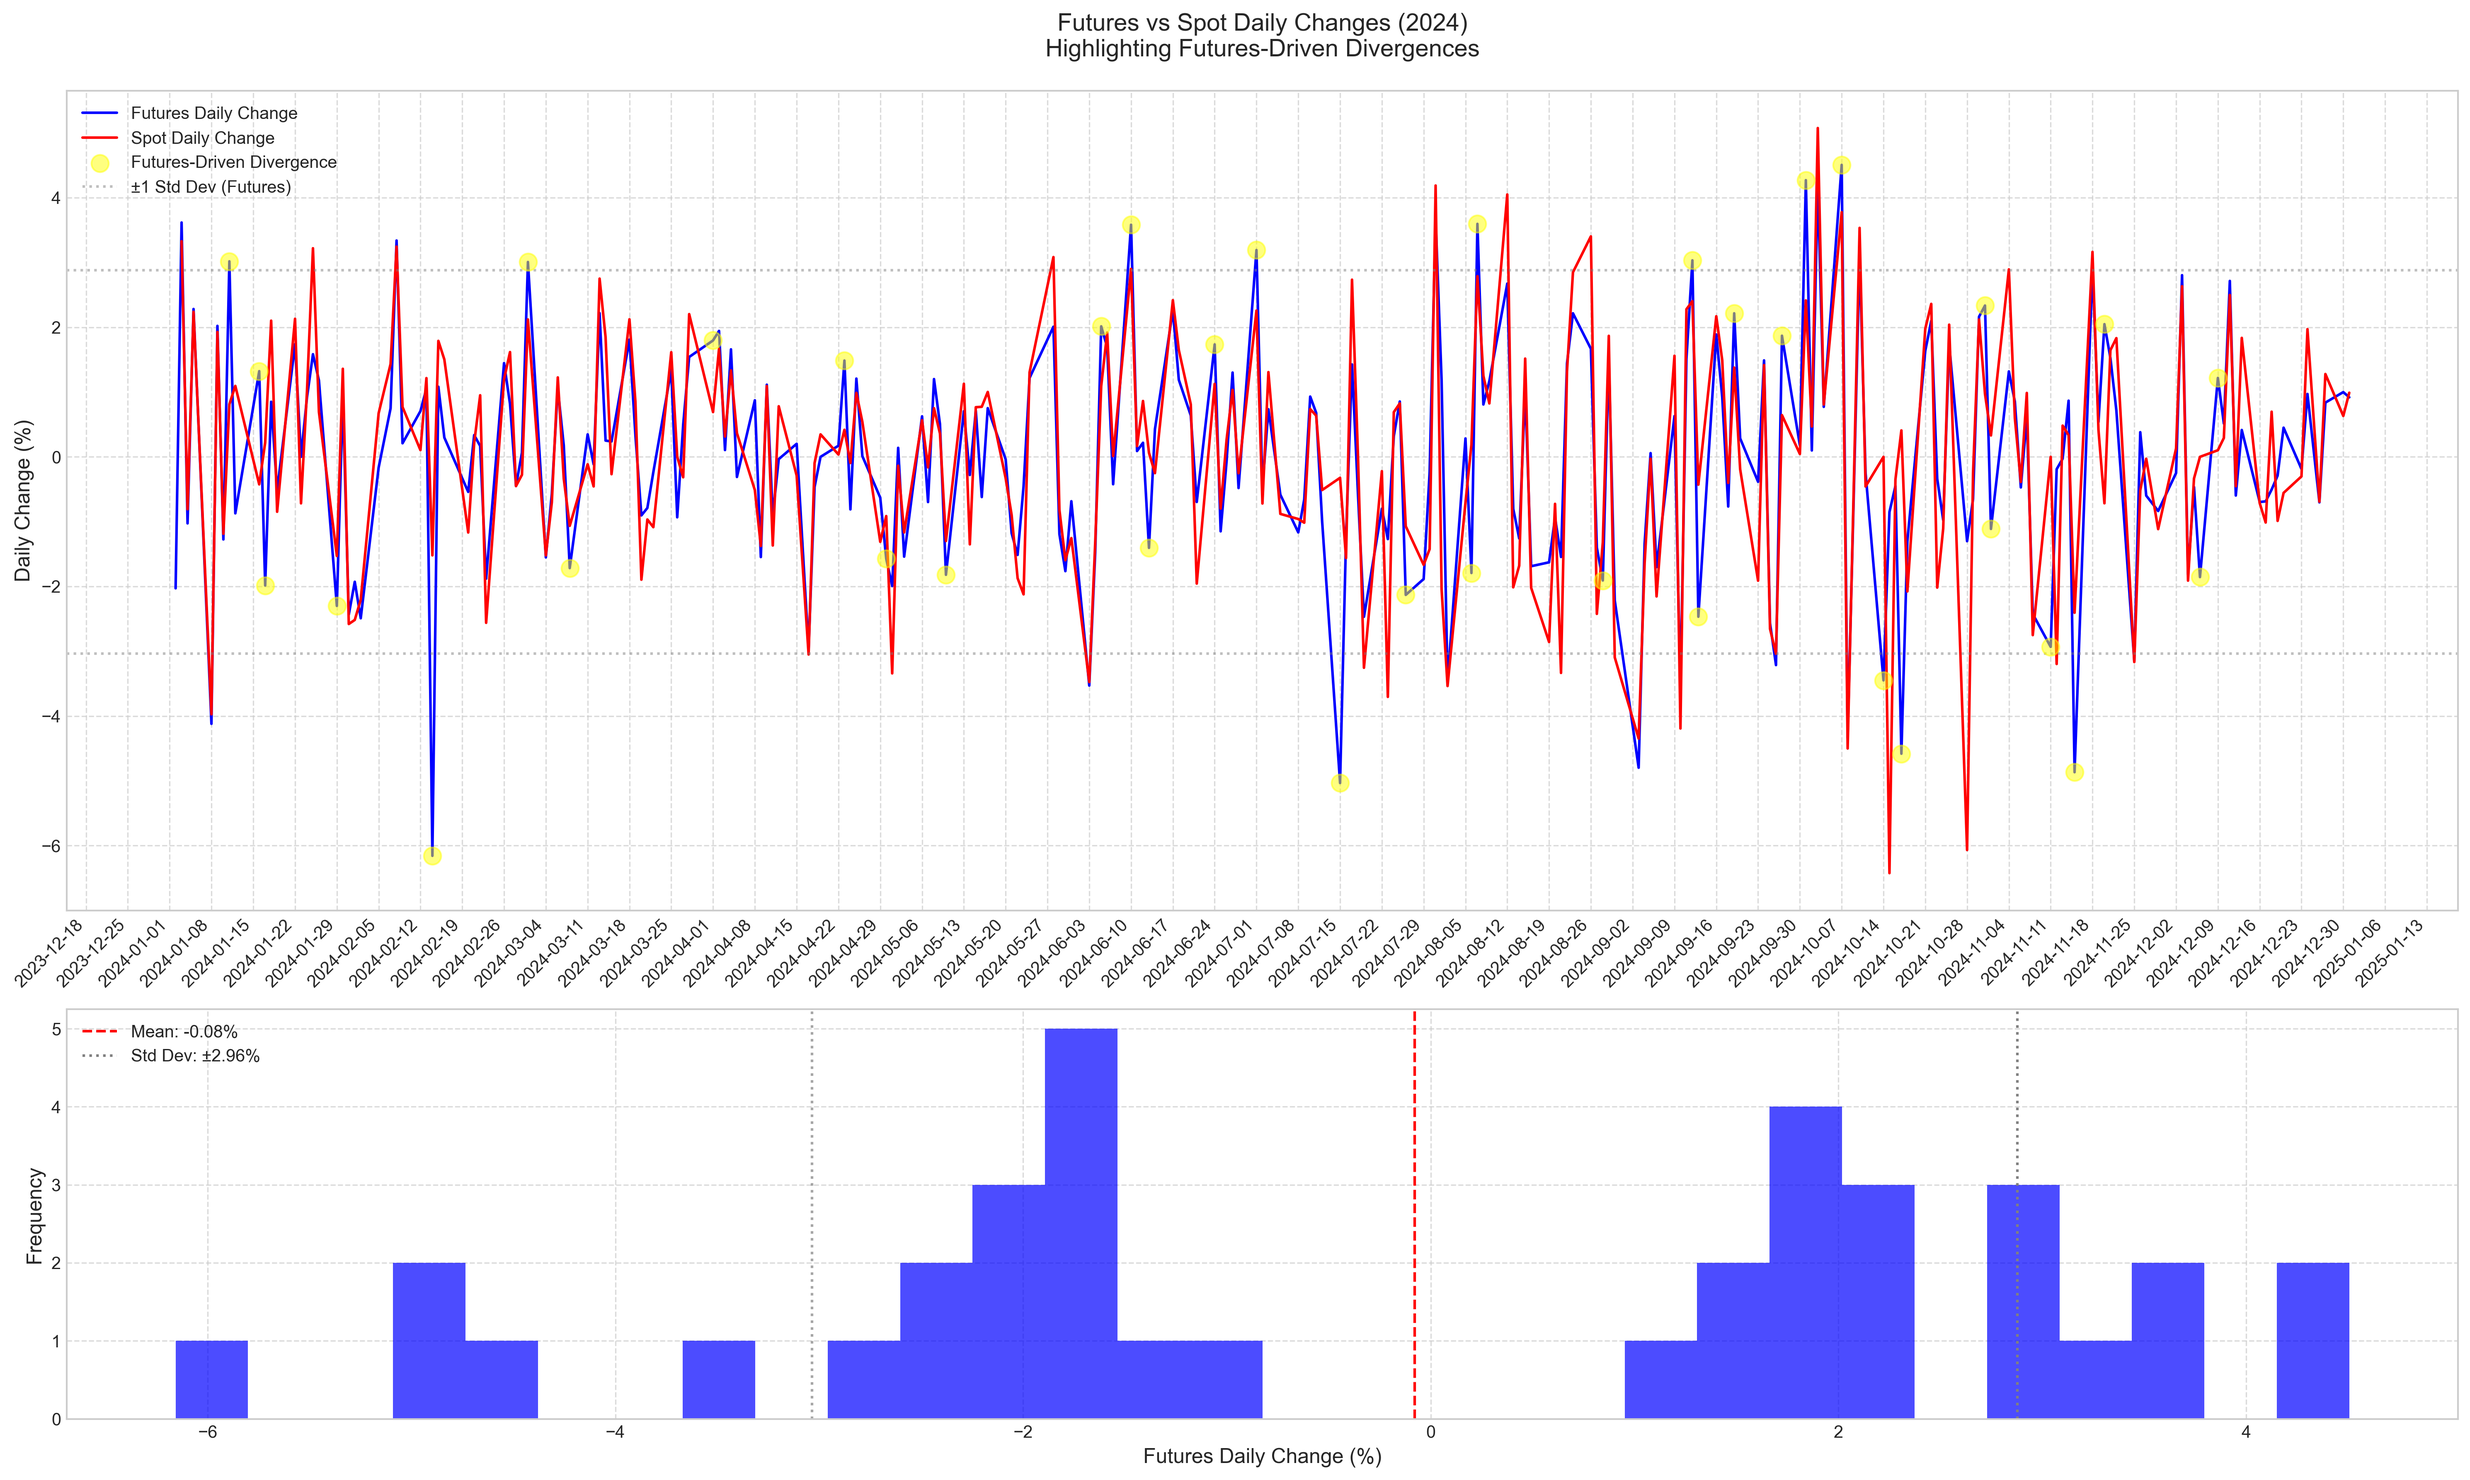
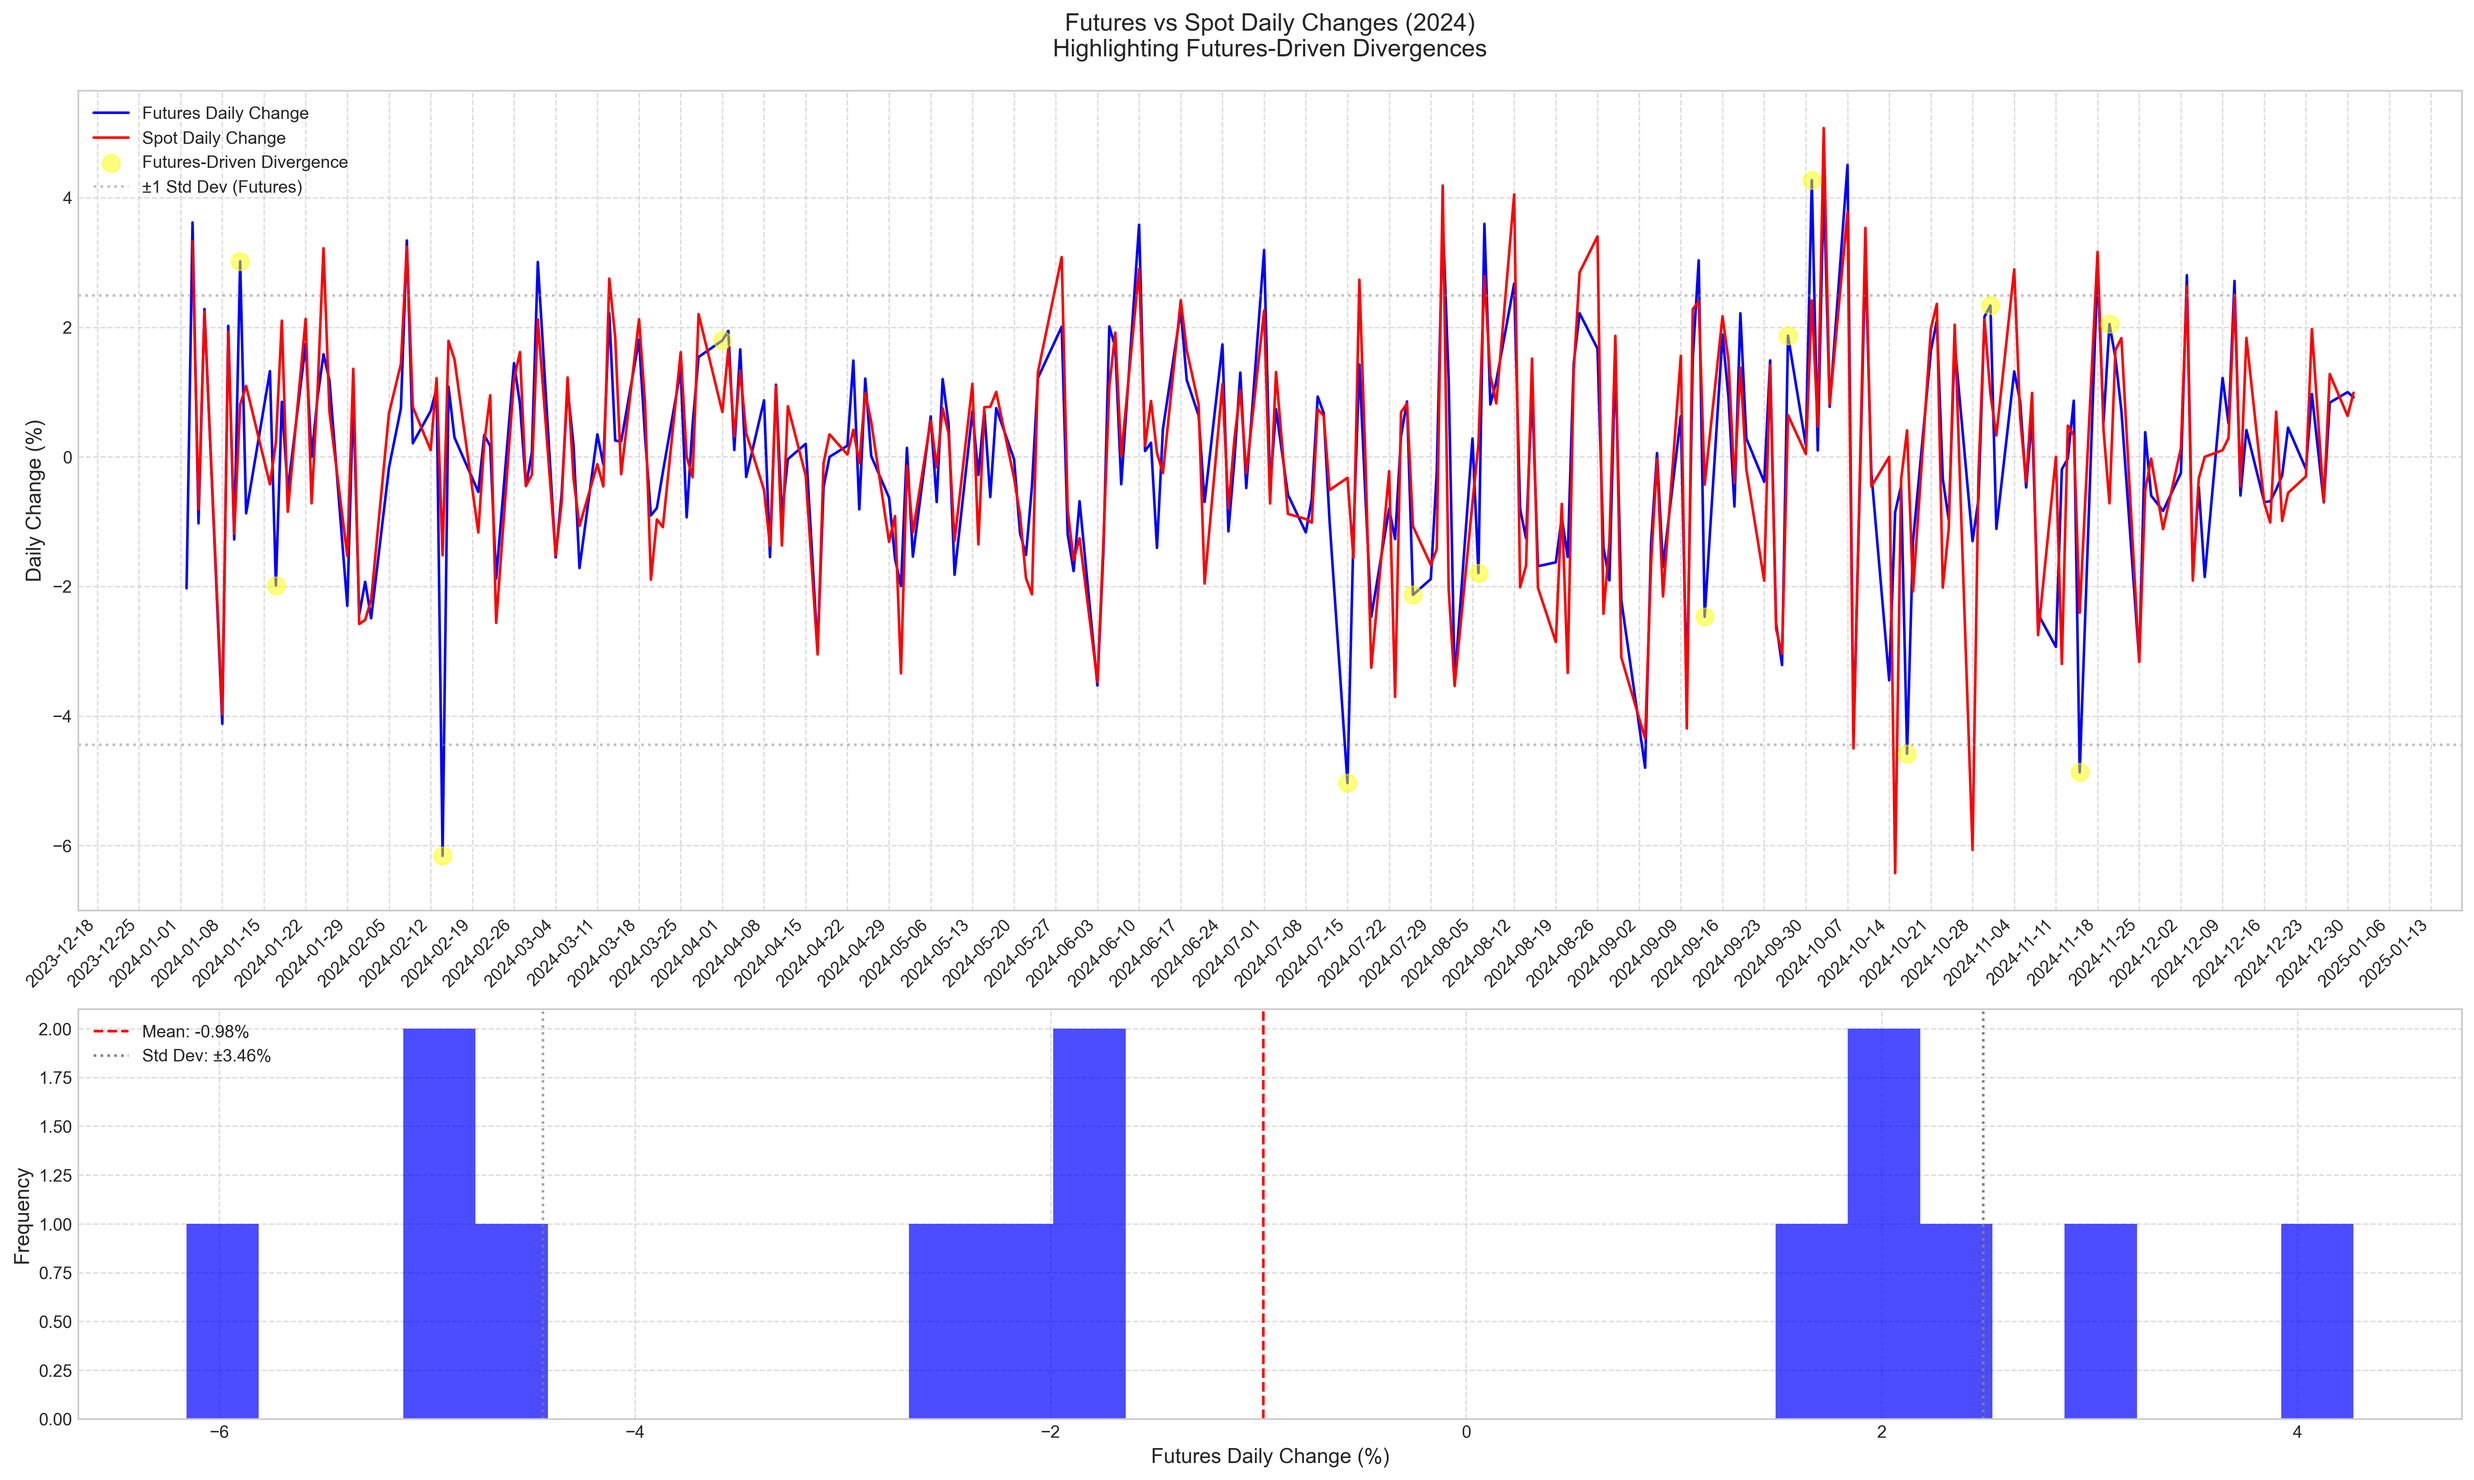
Cleaning up delta analysis

diff --git a/analysis/mixed/analyze_daily_deltas.py b/analysis/mixed/analyze_daily_deltas.py
@@ -5,6 +5,16 @@ import numpy as np
 import sys
 from pathlib import Path
 
+"""
+Conditions for identifying significant futures-driven divergences:
+1. Magnitude: Futures price move must exceed 1.5% (abs)
+2. Dominance: Futures move must be at least 1.5x larger than spot move
+3. Separation: The absolute difference between futures and spot moves must exceed 1.0%
+
+All three conditions must be met simultaneously to flag an event as futures-driven.
+This ensures we only highlight cases where futures markets are clearly leading price action.
+"""
+
 # Add main directory to Python path
 sys.path.append(str(Path(__file__).resolve().parent.parent.parent))
 
@@ -22,14 +32,19 @@ def analyze_deltas(df_spot, df_futures):
     # Calculate the delta between futures and spot changes
     df_merged['delta'] = df_merged['futures_change'] - df_merged['spot_change']
     
-    # Mark deltas where futures change was the dominant factor
+    # Calculate the ratio of futures to spot change
+    df_merged['change_ratio'] = abs(df_merged['futures_change']) / abs(df_merged['spot_change'].replace(0, float('nan')))
+    
+    # Mark deltas where futures change was the dominant factor with more stringent conditions
     df_merged['futures_driven'] = (
-        # Futures move must be significant (>1%)
-        (abs(df_merged['futures_change']) > 1.0) & 
+        # Futures move must be more significant (>1.5%)
+        (abs(df_merged['futures_change']) > 1.5) & 
         # Futures move must be larger than spot move
         (abs(df_merged['futures_change']) > abs(df_merged['spot_change'])) &
-        # The difference must be meaningful (>0.5%)
-        (abs(df_merged['futures_change'] - df_merged['spot_change']) > 0.5)
+        # The absolute difference must be more meaningful (>1.0%)
+        (abs(df_merged['futures_change'] - df_merged['spot_change']) > 1.0) &
+        # Futures change should be at least 1.5x the spot change
+        (df_merged['change_ratio'] > 1.5)
     )
     
     return df_merged
@@ -122,7 +137,7 @@ def main():
     plot_deltas(df_merged)
     
     # Get futures-driven events
-    futures_driven = df_merged[df_merged['futures_driven']].sort_values('delta', ascending=False)
+    futures_driven = df_merged[df_merged['futures_driven']]
     
     # Print summary statistics for futures-driven events
     print("\nFutures-Driven Divergence Analysis:")
@@ -130,16 +145,24 @@ def main():
     print(f"Number of significant futures-driven events: {len(futures_driven)}")
     print(f"Mean Futures Change: {futures_driven['futures_change'].mean():.2f}%")
     print(f"Std Dev of Futures Changes: {futures_driven['futures_change'].std():.2f}%")
-    print(f"Max Futures Change: {futures_driven['futures_change'].max():.2f}%")
-    print(f"Min Futures Change: {futures_driven['futures_change'].min():.2f}%")
+    print(f"Max Absolute Futures Change: {abs(futures_driven['futures_change']).max():.2f}%")
+    print(f"Max Absolute Delta: {abs(futures_driven['delta']).max():.2f}%")
     
-    # Print the dates with largest futures-driven divergences
-    print("\nLargest Futures-Driven Divergences:")
-    for _, row in futures_driven.head().iterrows():
+    # Print the dates with largest absolute deltas between futures and spot
+    print("\nLargest Absolute Divergences (|Futures - Spot|):")
+    for _, row in futures_driven.sort_values('delta', key=abs, ascending=False).head().iterrows():
         print(f"\nDate: {row['date'].strftime('%Y-%m-%d')}")
         print(f"Futures Change: {row['futures_change']:.2f}%")
         print(f"Spot Change: {row['spot_change']:.2f}%")
-        print(f"Net Delta: {row['delta']:.2f}%")
+        print(f"Absolute Divergence: {abs(row['delta']):.2f}%")
+    
+    # Print the dates with largest absolute futures moves
+    print("\nLargest Raw Futures Moves (|Futures Change|):")
+    for _, row in futures_driven.sort_values('futures_change', key=abs, ascending=False).head().iterrows():
+        print(f"\nDate: {row['date'].strftime('%Y-%m-%d')}")
+        print(f"Futures Change: {row['futures_change']:.2f}%")
+        print(f"Spot Change: {row['spot_change']:.2f}%")
+        print(f"Absolute Futures Move: {abs(row['futures_change']):.2f}%")
 
 if __name__ == "__main__":
     main() 
